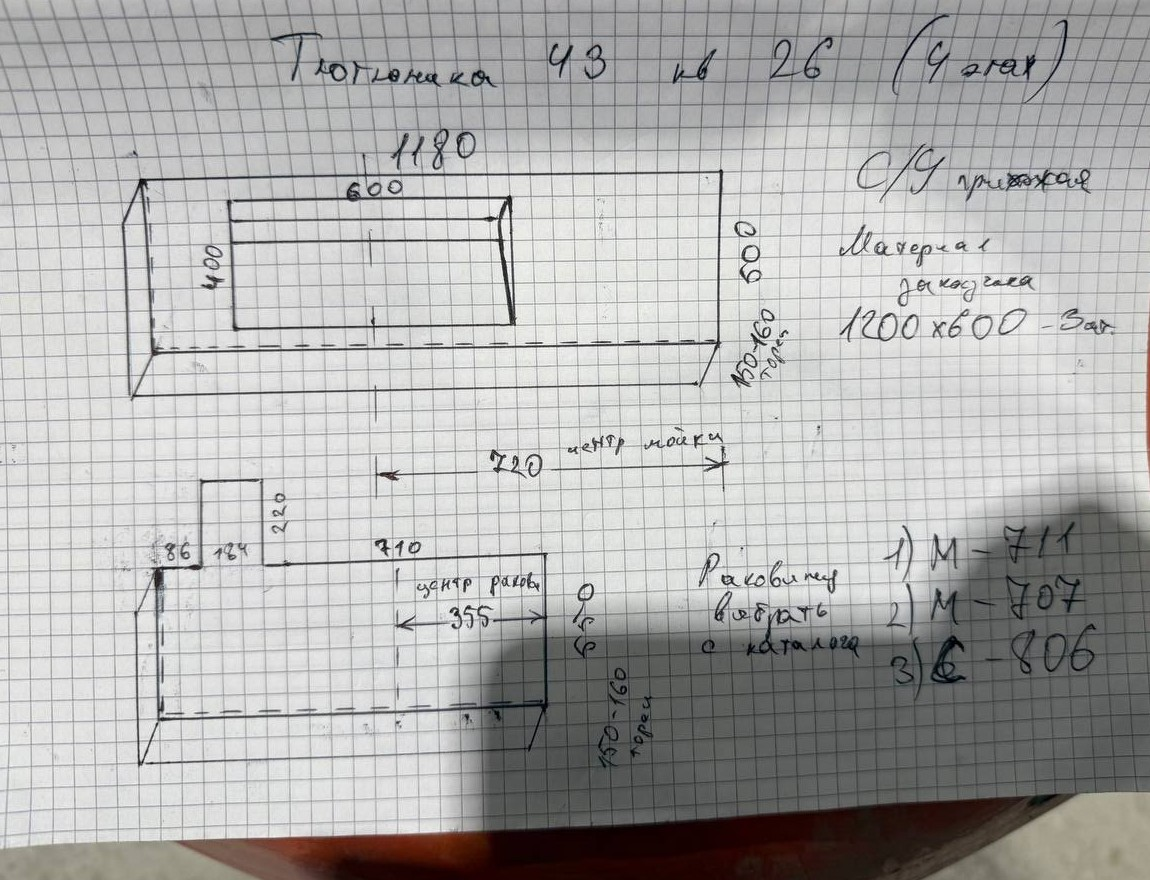
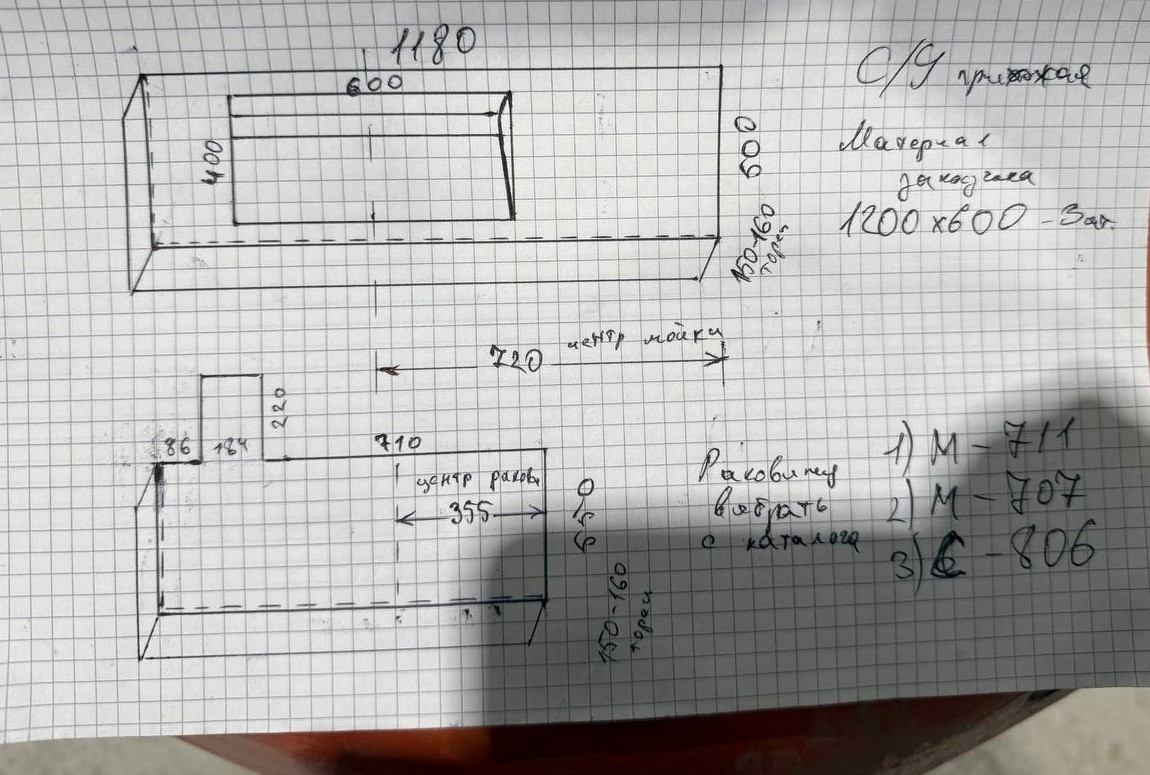
КП 2026-002: ціни стільниць -100 $, прибрано адресу об'єкта
Claude-Session: https://claude.ai/code/session_01426pW4XZdWUpmn2i7oeagW

diff --git a/docs/prorahunky/2026-002-stilnytsi-material-zamovnyka.html b/docs/prorahunky/2026-002-stilnytsi-material-zamovnyka.html
@@ -222,7 +222,7 @@ h2{margin:0 0 3px;font:500 24px/1.15 var(--display)}
         <div class="tag">Стільниця 1 · матеріал замовника</div>
         <div class="dm" contenteditable="true">плита 1200×600 мм · 3 шт · торець 150–160 мм</div>
       </div>
-      <div class="own-p"><b contenteditable="true">1 340 $</b></div>
+      <div class="own-p"><b contenteditable="true">1 240 $</b></div>
     </div>
 
     <div>
@@ -234,7 +234,7 @@ h2{margin:0 0 3px;font:500 24px/1.15 var(--display)}
       <div>
         <div class="label">Ескіз клієнта</div>
         <div class="drawings one">
-          <figure><img src="../../assets/img/kp/eskiz-zamovnyka.jpg" alt="Ескіз клієнта від руки"><figcaption contenteditable="true">буд. 43, кв. 26 · 1180×600 мм</figcaption></figure>
+          <figure><img src="../../assets/img/kp/eskiz-zamovnyka.jpg" alt="Ескіз клієнта від руки"><figcaption contenteditable="true">1180×600 мм</figcaption></figure>
         </div>
       </div>
       <div>
@@ -268,7 +268,6 @@ h2{margin:0 0 3px;font:500 24px/1.15 var(--display)}
         <div class="name" contenteditable="true" data-ph="Ім'я клієнта"></div>
       </div>
       <dl>
-        <dt>Об'єкт</dt><dd contenteditable="true">буд. 43, кв. 26 (4 поверх)</dd>
         <dt>Виріб</dt><dd contenteditable="true">Дві стільниці · санвузол</dd>
         <dt>Дата</dt><dd contenteditable="true" id="dateF"></dd>
         <dt>№</dt><dd contenteditable="true" data-ph="2026-002"></dd>
@@ -279,10 +278,10 @@ h2{margin:0 0 3px;font:500 24px/1.15 var(--display)}
       <div class="l">
         <div class="eyebrow">Орієнтовна вартість</div>
         <div class="qrows">
-          <div><span class="ql" contenteditable="true">Стільниця 1 · матеріал замовника</span><span class="qv"><span contenteditable="true">1 340</span> <em>$</em></span></div>
-          <div><span class="ql" contenteditable="true">Стільниця 2 · акрил М-707</span><span class="qv"><span contenteditable="true">830</span> <em>$</em></span></div>
-          <div><span class="ql" contenteditable="true">Стільниця 2 · акрил М-711</span><span class="qv"><span contenteditable="true">830</span> <em>$</em></span></div>
-          <div><span class="ql" contenteditable="true">Стільниця 2 · акрил С-806</span><span class="qv"><span contenteditable="true">885</span> <em>$</em></span></div>
+          <div><span class="ql" contenteditable="true">Стільниця 1 · матеріал замовника</span><span class="qv"><span contenteditable="true">1 240</span> <em>$</em></span></div>
+          <div><span class="ql" contenteditable="true">Стільниця 2 · акрил М-707</span><span class="qv"><span contenteditable="true">730</span> <em>$</em></span></div>
+          <div><span class="ql" contenteditable="true">Стільниця 2 · акрил М-711</span><span class="qv"><span contenteditable="true">730</span> <em>$</em></span></div>
+          <div><span class="ql" contenteditable="true">Стільниця 2 · акрил С-806</span><span class="qv"><span contenteditable="true">785</span> <em>$</em></span></div>
         </div>
         <div class="sub" contenteditable="true">без раковин · з доставкою і монтажем</div>
       </div>
@@ -360,7 +359,7 @@ function decor(n){
   return el;
 }
 var DEC=[
-  {n:'М-707',p:'830 $'},{n:'М-711',p:'830 $'},{n:'С-806',p:'885 $'}
+  {n:'М-707',p:'730 $'},{n:'М-711',p:'730 $'},{n:'С-806',p:'785 $'}
 ];
 DEC.forEach(function(x,i){
   var el=decor(i+1), sw=el.querySelector('.swatch');
